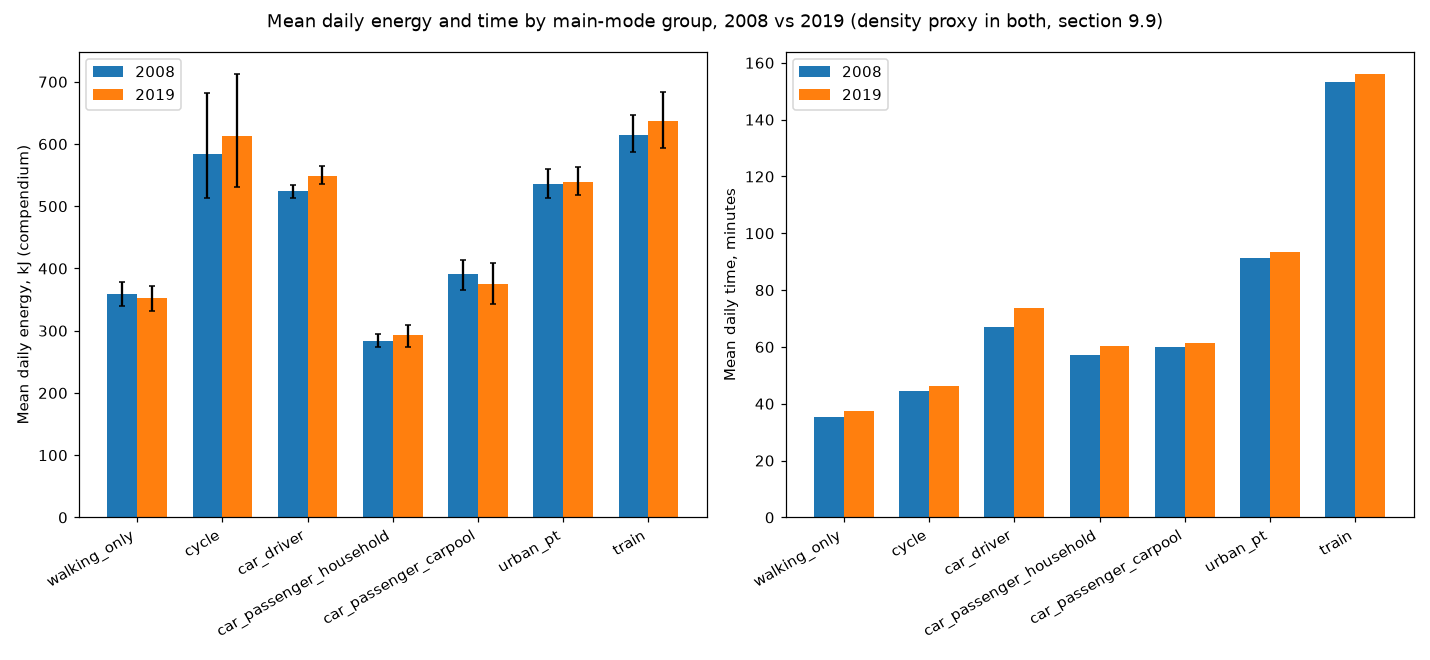
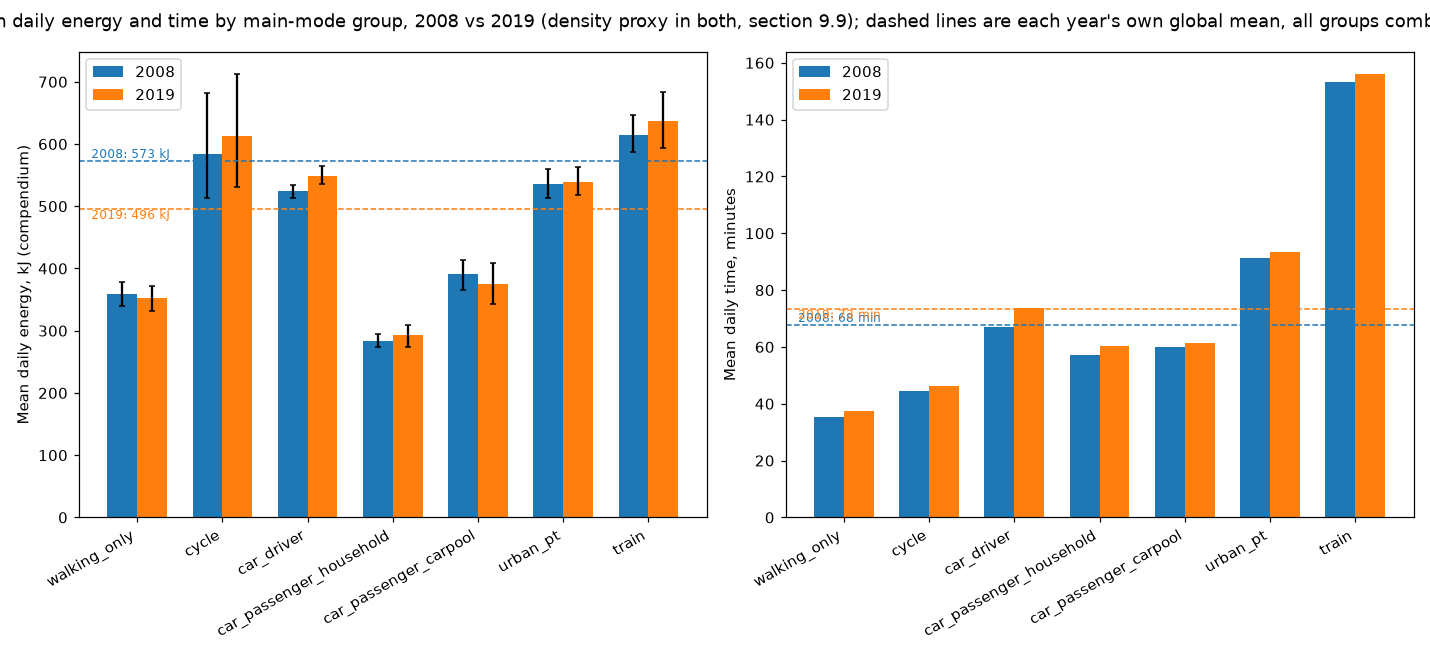
Step 11 --compare: add global (all-groups) mean energy/time reference lines to compare_energy_time.png
Both years' overall weighted mean daily energy (compendium) and mean
daily time, left-anchored labels (a right-anchored label clipped into
the neighbouring subplot's own background at this text length).
run()/results gains mean_time_min; the compare report gets a short
'Overall (all groups combined)' section with the same two values.

diff --git a/packages/mobgrid/budget/emp.py b/packages/mobgrid/budget/emp.py
@@ -319,6 +319,13 @@ def run(
     )
     gamma_kh = daily_energy.gamma_moments_fit(mean_kh, var_kh)
     gamma_cp = daily_energy.gamma_moments_fit(mean_cp, var_cp)
+    # Overall (all groups combined) weighted mean daily time, alongside
+    # `mean_kh`/`mean_cp` (used by `--compare`'s figure, section 9.9's
+    # "Outputs of the re-estimation": global means next to the group
+    # breakdown).
+    mean_time_min = float(
+        np.sum(days["pond_jour"] * days["total_time_min"]) / days["pond_jour"].sum()
+    )
 
     by_group = {s.group: s for s in mode_stats}
     kh_means = [
@@ -554,6 +561,7 @@ def run(
         "density_stats": density_stats,
         "mean_kh": mean_kh,
         "mean_cp": mean_cp,
+        "mean_time_min": mean_time_min,
         "gamma_kh": gamma_kh,
         "gamma_cp": gamma_cp,
         "ratio_kh": ratio_kh,
@@ -2147,10 +2155,22 @@ def run_compare(
         f"(2019: {results_2019_proxy['p0_overall'].p0_w:.1f} W, "
         f"n={results_2019_proxy['p0_overall'].n})",
         "",
+        "## Overall (all groups combined), both years",
+        "",
+        f"- Mean daily energy: 2008 {results_2008['mean_kh']:.1f} kJ (kh), "
+        f"{results_2008['mean_cp']:.1f} kJ (cp); 2019 "
+        f"{results_2019_proxy['mean_kh']:.1f} kJ (kh), "
+        f"{results_2019_proxy['mean_cp']:.1f} kJ (cp).",
+        f"- Mean daily time: 2008 {results_2008['mean_time_min']:.1f} min; "
+        f"2019 {results_2019_proxy['mean_time_min']:.1f} min.",
+        "",
     ]
 
     figure_path = _figure_compare_energy_time(
-        results_2008["mode_stats"], results_2019_proxy["mode_stats"], out_path,
+        results_2008["mode_stats"], results_2019_proxy["mode_stats"],
+        (results_2008["mean_cp"], results_2019_proxy["mean_cp"]),
+        (results_2008["mean_time_min"], results_2019_proxy["mean_time_min"]),
+        out_path,
     )
     lines += [
         "## Figure",
@@ -2167,11 +2187,16 @@ def run_compare(
 def _figure_compare_energy_time(
     stats_2008: list[daily_energy.GroupStats],
     stats_2019: list[daily_energy.GroupStats],
+    overall_mean_energy_cp: tuple[float, float],
+    overall_mean_time_min: tuple[float, float],
     out_dir: Path,
 ) -> Path:
     """One figure: mean daily energy and time by group, 2008 vs 2019,
     with CI (section 9.9's "Outputs of the re-estimation" comparison
-    list)."""
+    list), plus each year's own global mean (all groups combined,
+    ``overall_mean_energy_cp``/``overall_mean_time_min``, 2008 then
+    2019) as a labelled horizontal reference line on both panels, as
+    F4a does for the single-survey report."""
     by_2008 = {s.group: s for s in stats_2008}
     by_2019 = {s.group: s for s in stats_2019}
     groups = [g for g in daily_energy.DAY_MODE_GROUPS if g in by_2008 or g in by_2019]
@@ -2199,6 +2224,27 @@ def _figure_compare_energy_time(
         times = [by_year[g].mean_time_min if g in by_year else np.nan for g in groups]
         ax_time.bar(x + offset, times, width, label=label)
 
+    for ax, overall_values, unit in (
+        (ax_energy, overall_mean_energy_cp, "kJ"),
+        (ax_time, overall_mean_time_min, "min"),
+    ):
+        label_transform = ax.get_yaxis_transform()
+        for value, year, color, va in (
+            (overall_values[0], "2008", "tab:blue", "bottom"),
+            (overall_values[1], "2019", "tab:orange", "top"),
+        ):
+            ax.axhline(value, color=color, linestyle="--", linewidth=1.0)
+            # Left-anchored (not right): a right-anchored label can
+            # render into the neighbouring subplot's own white
+            # background and look clipped there, since the two panels
+            # share a narrow gap (``fig.tight_layout()`` does not widen
+            # it for text added after the axes are built).
+            ax.text(
+                0.02, value, f"{year}: {value:.0f} {unit}",
+                transform=label_transform, color=color, fontsize=8, ha="left",
+                va=va,
+            )
+
     ax_energy.set_xticks(x)
     ax_energy.set_xticklabels(groups, rotation=30, ha="right")
     ax_energy.set_ylabel("Mean daily energy, kJ (compendium)")
@@ -2209,7 +2255,8 @@ def _figure_compare_energy_time(
     ax_time.legend()
     fig.suptitle(
         "Mean daily energy and time by main-mode group, 2008 vs 2019 "
-        "(density proxy in both, section 9.9)"
+        "(density proxy in both, section 9.9); dashed lines are each "
+        "year's own global mean, all groups combined"
     )
     fig.tight_layout()
     path = out_dir / "compare_energy_time.png"

diff --git a/docs/data/step11_compare.md b/docs/data/step11_compare.md
@@ -55,6 +55,11 @@ Generated by `python -m mobgrid.budget.emp --compare`. Same model parameters in 
 - v0: 3.63 km/h, n=20348 (2019: 3.38 km/h, n=7707)
 - P0: 47.5 W at an implied flat speed of 15.70 km/h, n=2146 (2019: 34.8 W, n=727)
 
+## Overall (all groups combined), both years
+
+- Mean daily energy: 2008 625.0 kJ (kh), 572.8 kJ (cp); 2019 544.4 kJ (kh), 495.7 kJ (cp).
+- Mean daily time: 2008 67.8 min; 2019 73.3 min.
+
 ## Figure
 
 ![compare_energy_time](step11_compare/compare_energy_time.png)
